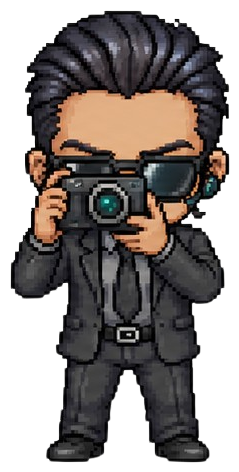
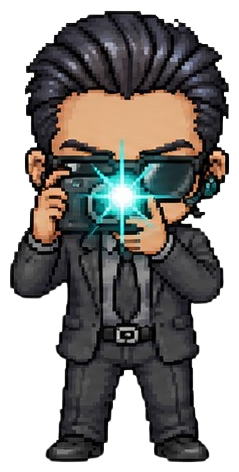
loading screen: spy down to 3 frames (drop the chest-ready frame)
Loop is now aim -> flash -> lower. sci-fi/spy frame counts in
LOADING_ANIM_FRAMES.

diff --git a/index.html b/index.html
@@ -9420,7 +9420,7 @@ const FRAME_BY_ID = Object.fromEntries(FRAMES.map(f => [f.id, f]));
 // user can verify their browser is running the latest deploy by
 // checking Settings → bottom of the modal. Format: YYYY.MM.DD.N
 // where N increments per change on the same day.
-const BUILD_VERSION = '2026.05.21.276';
+const BUILD_VERSION = '2026.05.21.277';
 
 // ──────────────────────────────────────────────────────────────────
 // SERVICE WORKER REGISTRATION
@@ -29779,7 +29779,7 @@ function pickWaitQuip(pool, elapsedSec) {
 // back to the host-face loader. Add a key here as its frames land.
 const LOADING_ANIM_READY = new Set(['zombie', 'scifi', 'detective', 'spy']);
 // Frame count per key (default 4).
-const LOADING_ANIM_FRAMES = { scifi: 1 };
+const LOADING_ANIM_FRAMES = { scifi: 1, spy: 3 };
 // Keys that get a gentle CSS hover-bob on top of the sprite loop —
 // for characters drawn static/floating rather than walking.
 const LOADING_ANIM_FLOAT = new Set(['scifi']);
